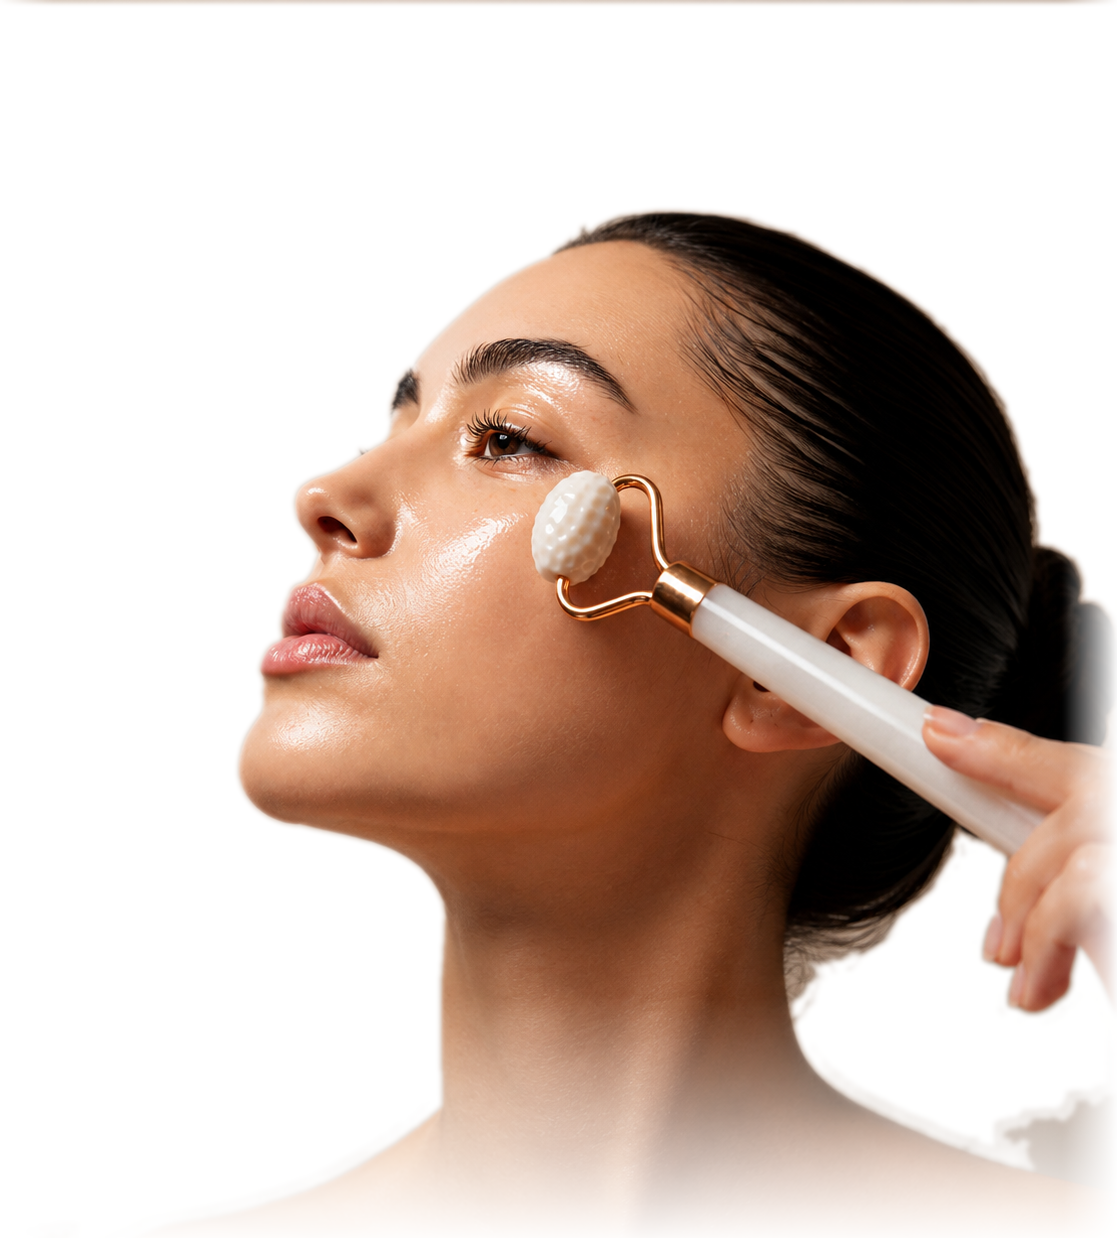
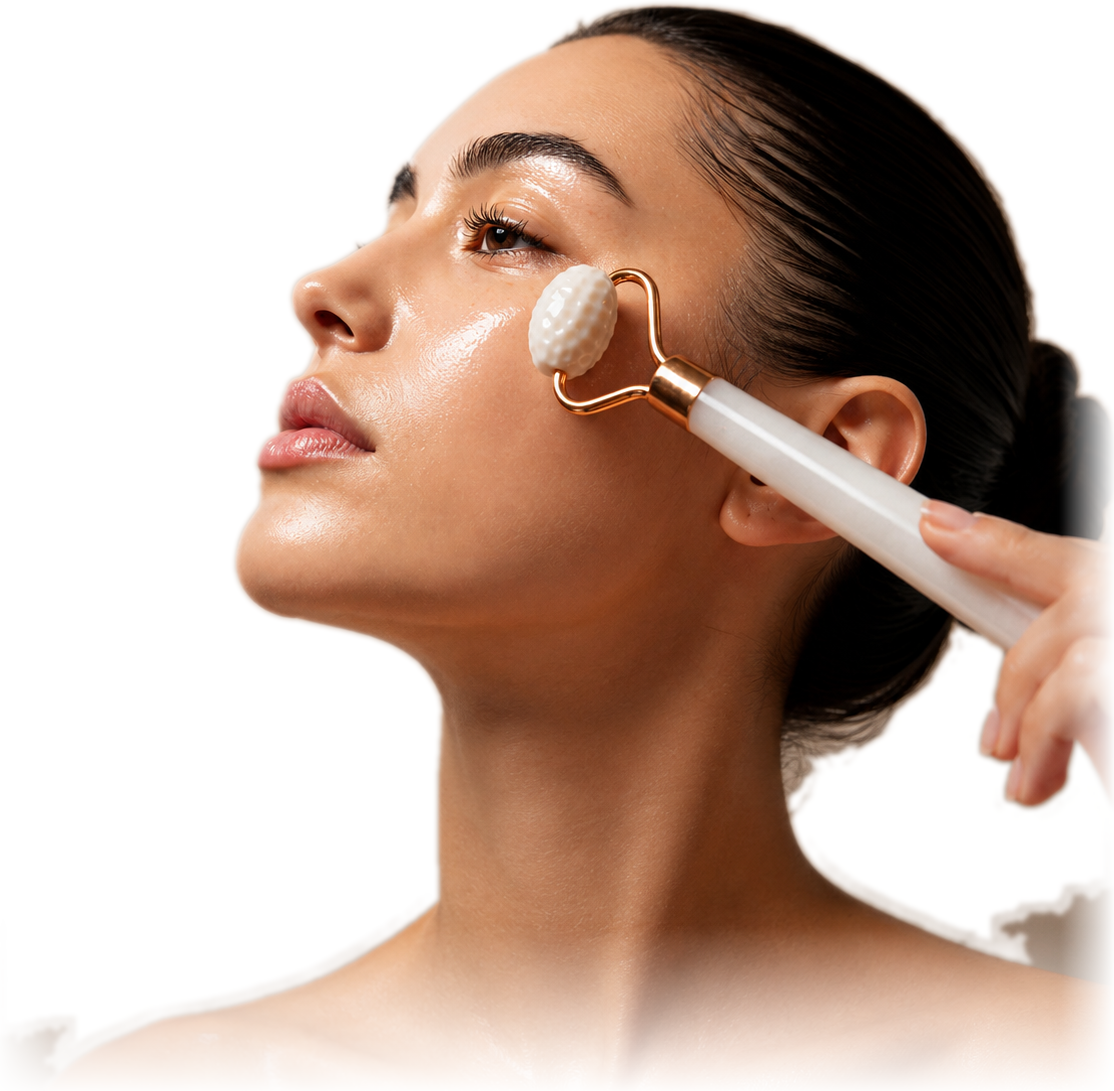
Remove the hairline above the portrait
The cut-out carried a sliver of alpha along its top row, which composited as
a thin line across the image. The frame edges are now hard-cleared and the
top gets a short fade, since the hair is cropped by the original frame there
and would otherwise end abruptly.

Eases the bottom trim so the shoulders stay in the crop, and updates the
intrinsic dimensions to match the new bounds.

diff --git a/src/components/NourishSection.tsx b/src/components/NourishSection.tsx
@@ -206,8 +206,8 @@ export default function NourishSection({
             <Image
               src="/ritual-face.png"
               alt=""
-              width={1117}
-              height={1238}
+              width={1114}
+              height={1091}
               sizes="(min-width: 1024px) 320px, 62vw"
               className="h-auto w-full"
             />

diff --git a/make-face-cutout.py b/make-face-cutout.py
@@ -34,8 +34,8 @@ MAX_WIDTH = 1200
 # the bottom corners is colourimetrically identical to shadowed skin — no
 # threshold separates them. Trimming and fading the foot of the frame removes
 # those patches and softens the hard torso crop at the same time.
-BOTTOM_CROP = 0.11
-BOTTOM_FADE = 0.20
+BOTTOM_CROP = 0.07
+BOTTOM_FADE = 0.13
 
 img = Image.open(SRC).convert("RGB")
 if img.width > MAX_WIDTH:
@@ -119,6 +119,13 @@ ramp = np.ones(keep)
 ramp[fade_from:] = np.linspace(1, 0, keep - fade_from)
 alpha = alpha * ramp[:, None]
 
+# A short fade at the top: the subject's hair is cropped by the frame there, so
+# without it the alpha ends abruptly and renders as a hairline across the image.
+top_fade = max(2, int(keep * 0.04))
+top_ramp = np.ones(keep)
+top_ramp[:top_fade] = np.linspace(0, 1, top_fade)
+alpha = alpha * top_ramp[:, None]
+
 side = max(2, int(w * 0.05))
 side_ramp = np.ones(w)
 side_ramp[:side] = np.linspace(0, 1, side)
@@ -126,6 +133,13 @@ side_ramp[-side:] = np.linspace(1, 0, side)
 alpha = alpha * side_ramp[None, :]
 
 img = img.crop((0, 0, w, keep))
+
+# Hard-clear the outermost pixels. Blur and ramps can leave a sliver of alpha
+# against the frame, which reads as a border line once composited.
+alpha[:2, :] = 0
+alpha[-2:, :] = 0
+alpha[:, :2] = 0
+alpha[:, -2:] = 0
 
 mask = Image.fromarray((alpha * 255).astype(np.uint8), "L")
 mask = mask.filter(ImageFilter.GaussianBlur(radius=2.5))
